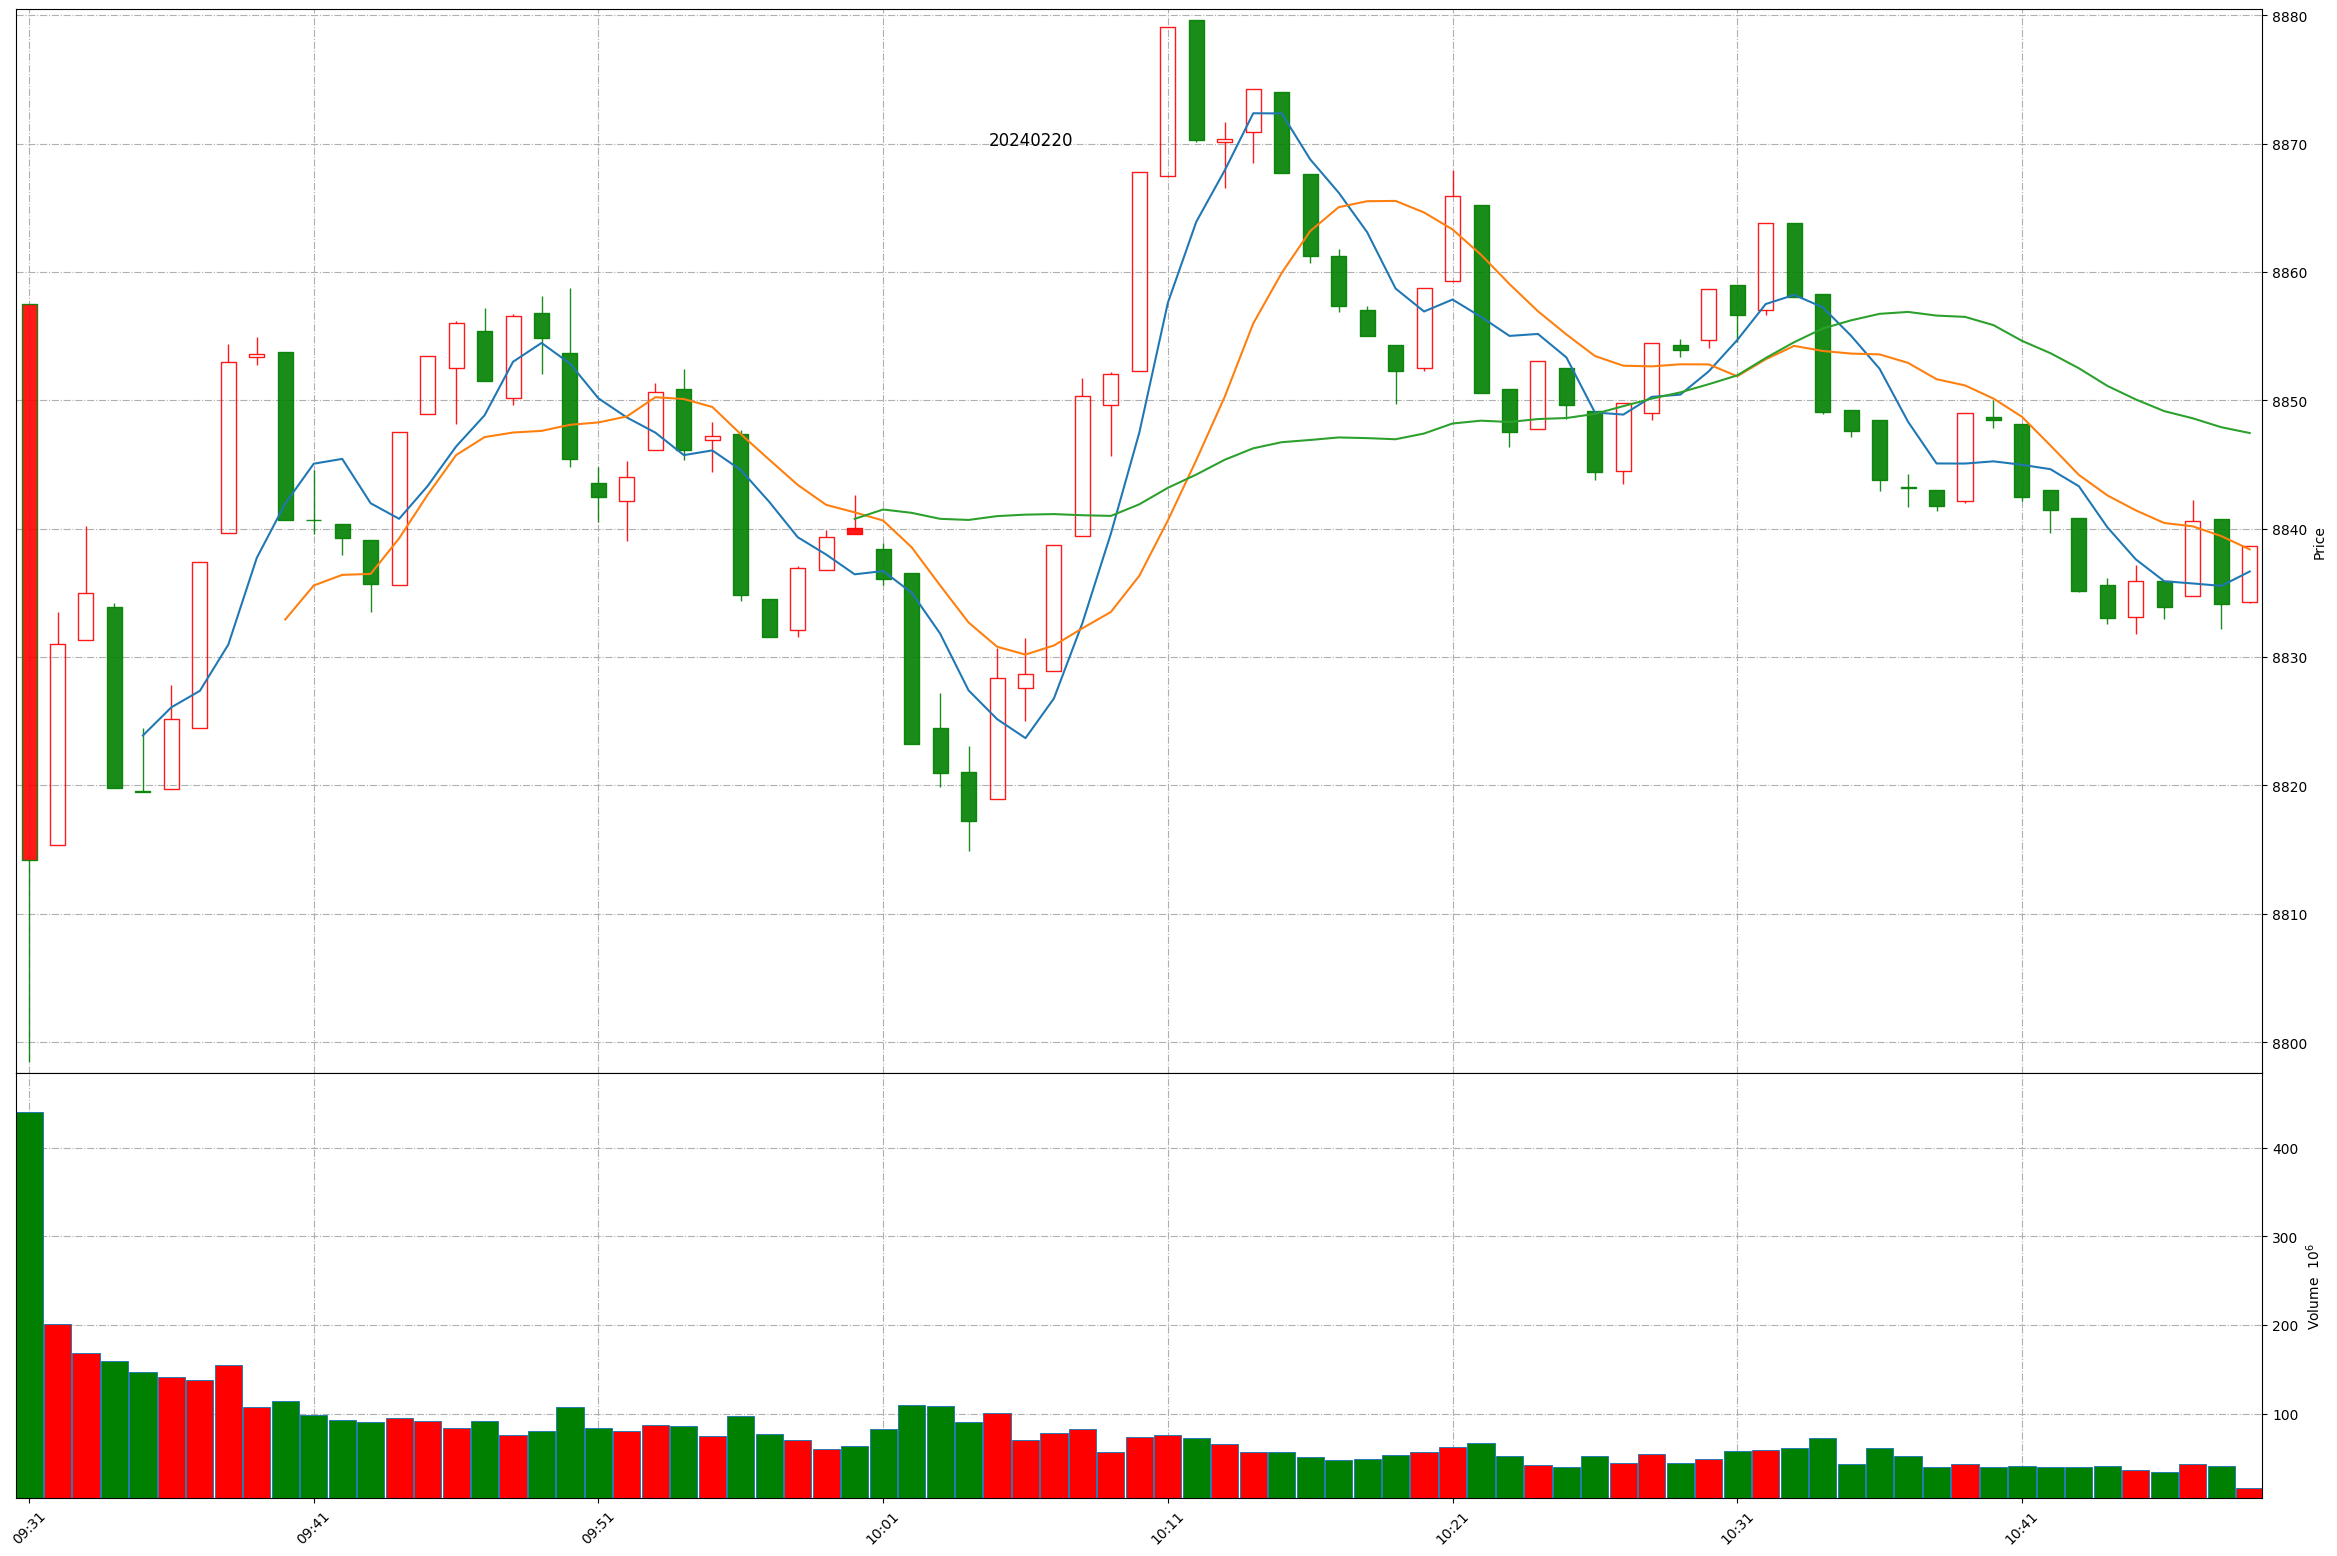
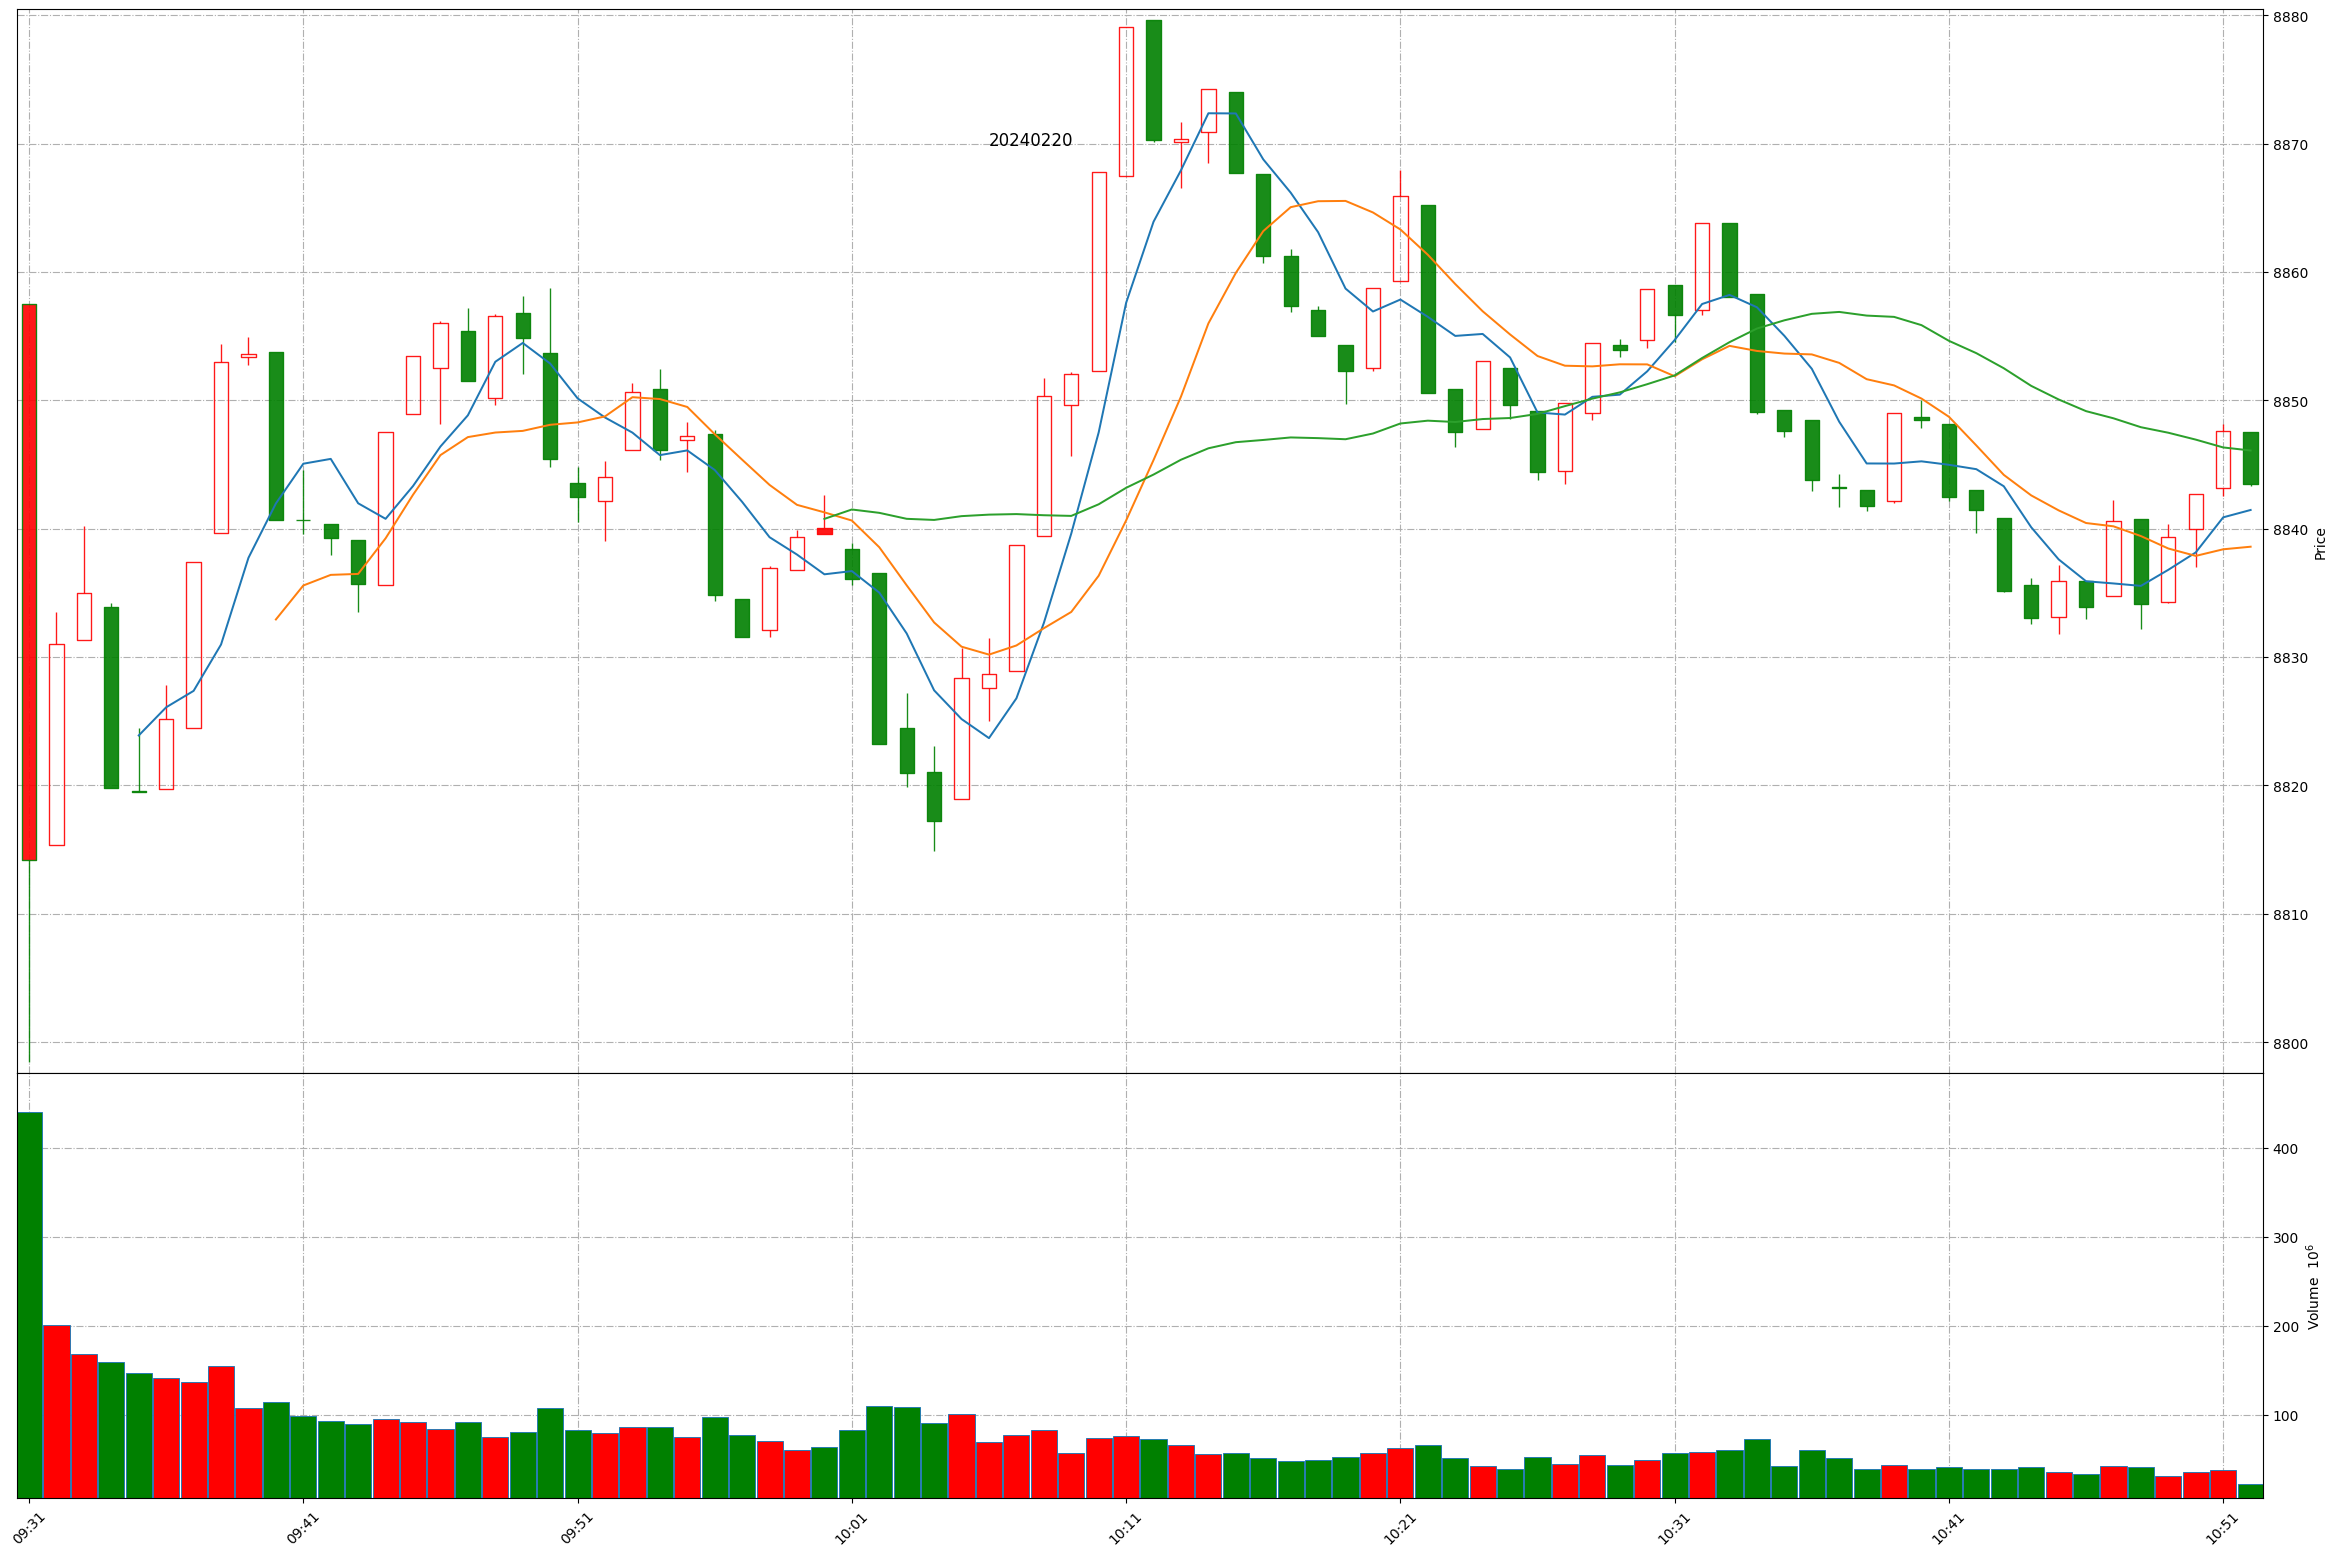
Github action update at 2024-02-20 10:52:03.

Changed region(s): [[0.0, 0.0, 0.9996, 0.5553], [0.0312, 0.8638, 0.9683, 0.9871], [0.9059, 0.2468, 0.9371, 0.2776]]

diff --git a/README.md b/README.md
@@ -1,11 +1,11 @@
 
 # Daily-A-share-market-quotes 每日 A 股指数（5min 更新）- 20240220
 
-### 上证指数 20240220 10:48
+### 上证指数 20240220 10:52
 ![](./fig/2024/2/20240220-sh000001.png)
 
-### 深证成指 20240220 10:48
+### 深证成指 20240220 10:52
 ![](./fig/2024/2/20240220-sz399001.png)
 
-### 北证50 20240220 10:48
+### 北证50 20240220 10:52
 ![](./fig/2024/2/20240220-bj899050.png)
